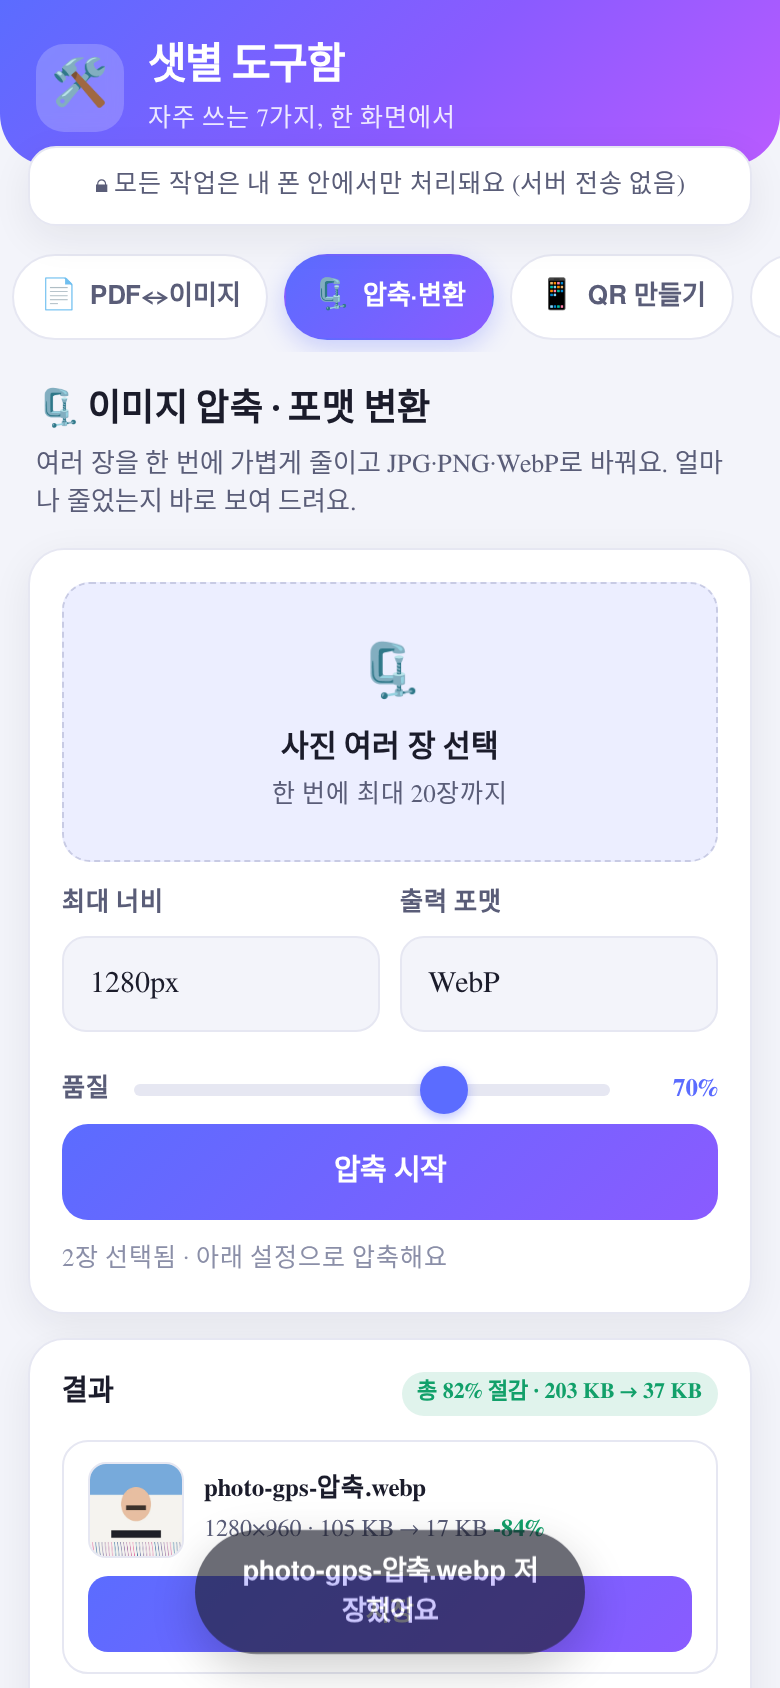
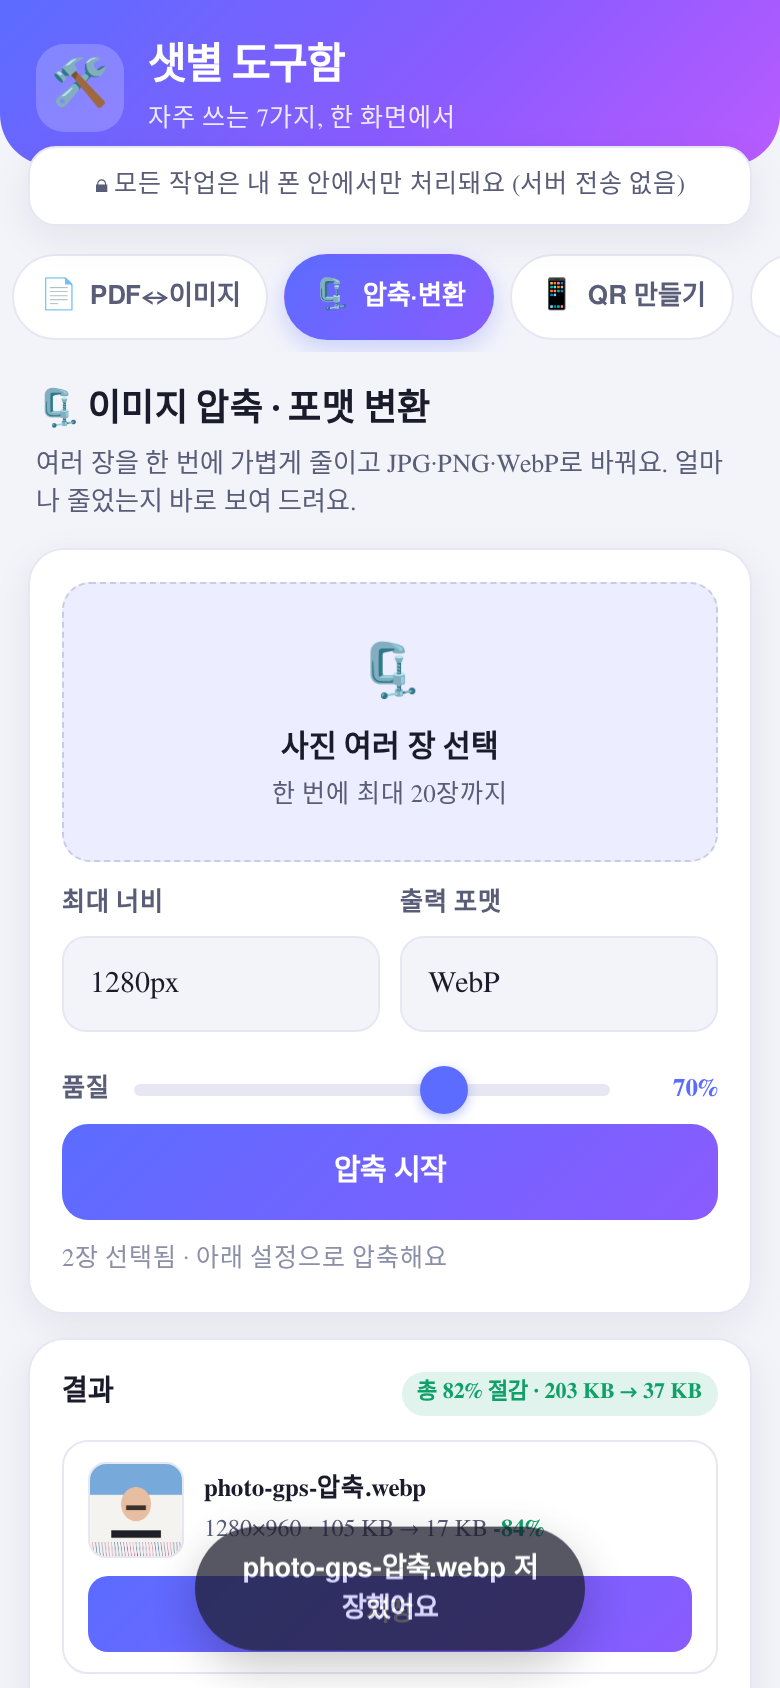
QR: 한글·이모지가 깨지지 않도록 UTF-8 바이트 모드로 기록

Changed region(s): [[0.3077, 0.8934, 0.7077, 0.9858]]

diff --git a/js/qr.js b/js/qr.js
@@ -34,6 +34,10 @@
 
   function draw() {
     const text = payload();
+    // 한글·이모지가 깨지지 않도록 UTF-8 바이트로 기록
+    if (window.qrcode && window.qrcode.stringToBytesFuncs && window.qrcode.stringToBytesFuncs['UTF-8']) {
+      window.qrcode.stringToBytes = window.qrcode.stringToBytesFuncs['UTF-8'];
+    }
     const qr = window.qrcode(0, PT.$('#qrEcc').value || 'M');
     qr.addData(text);
     qr.make();
